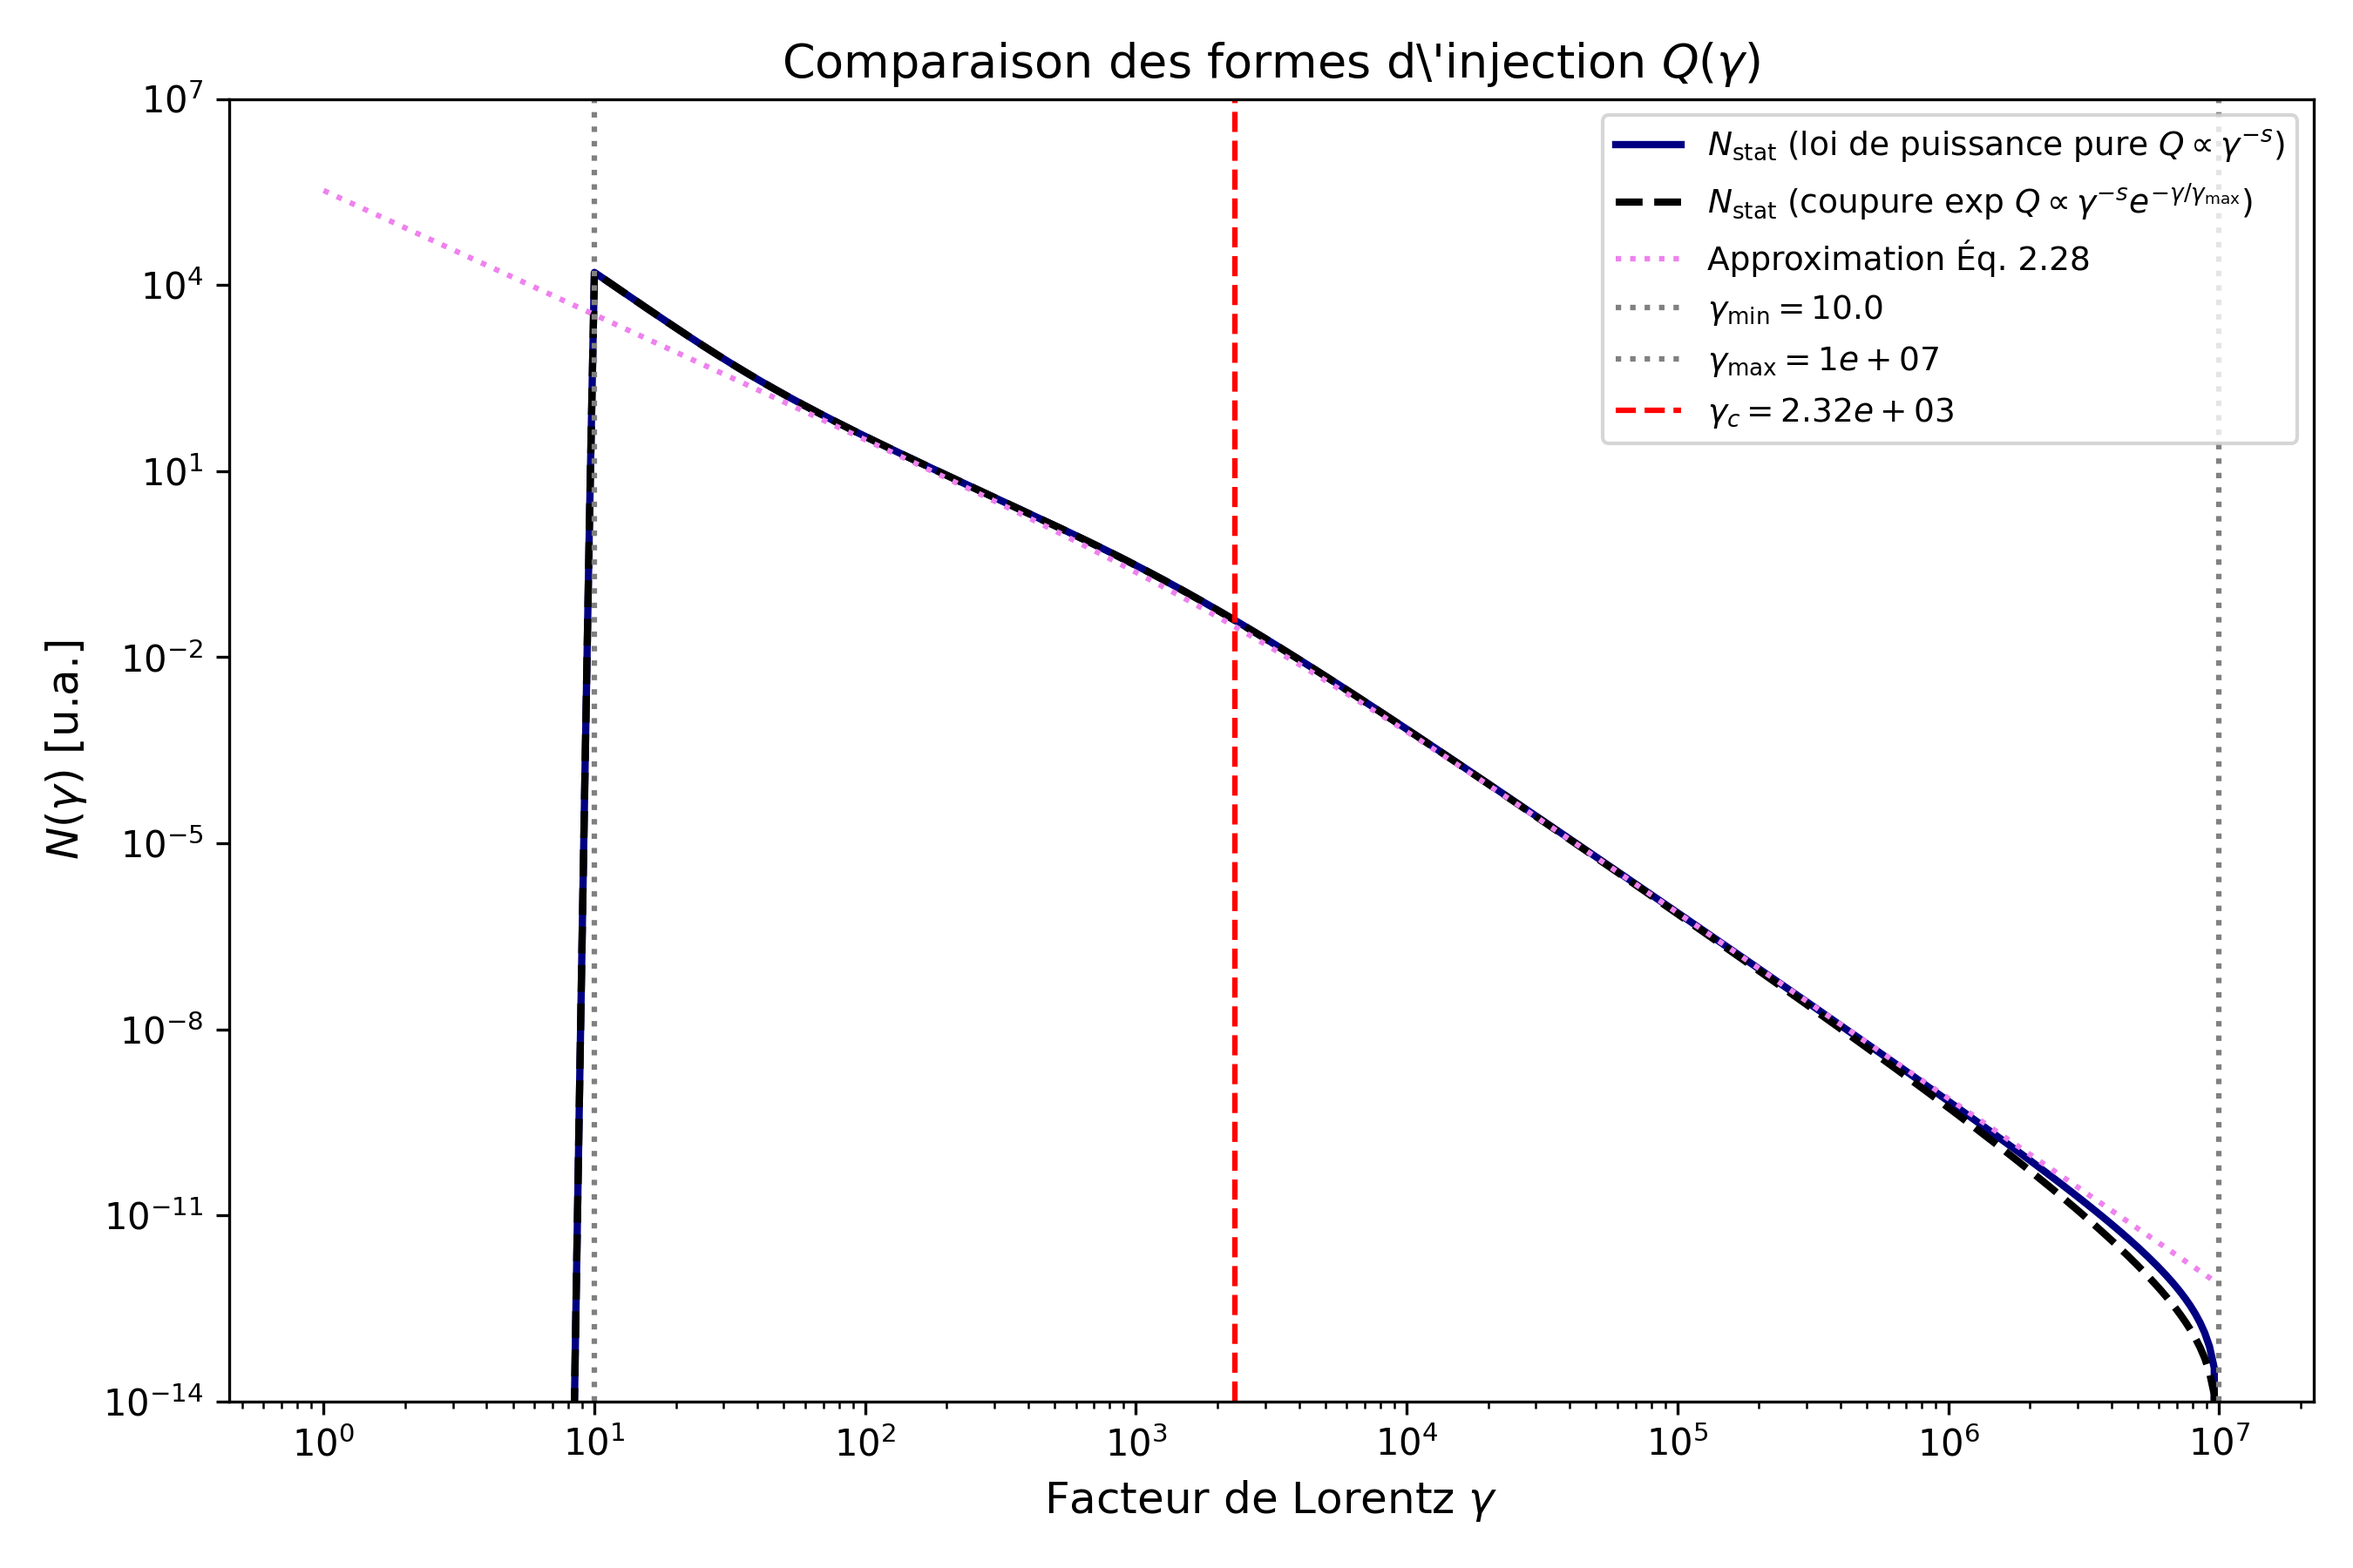
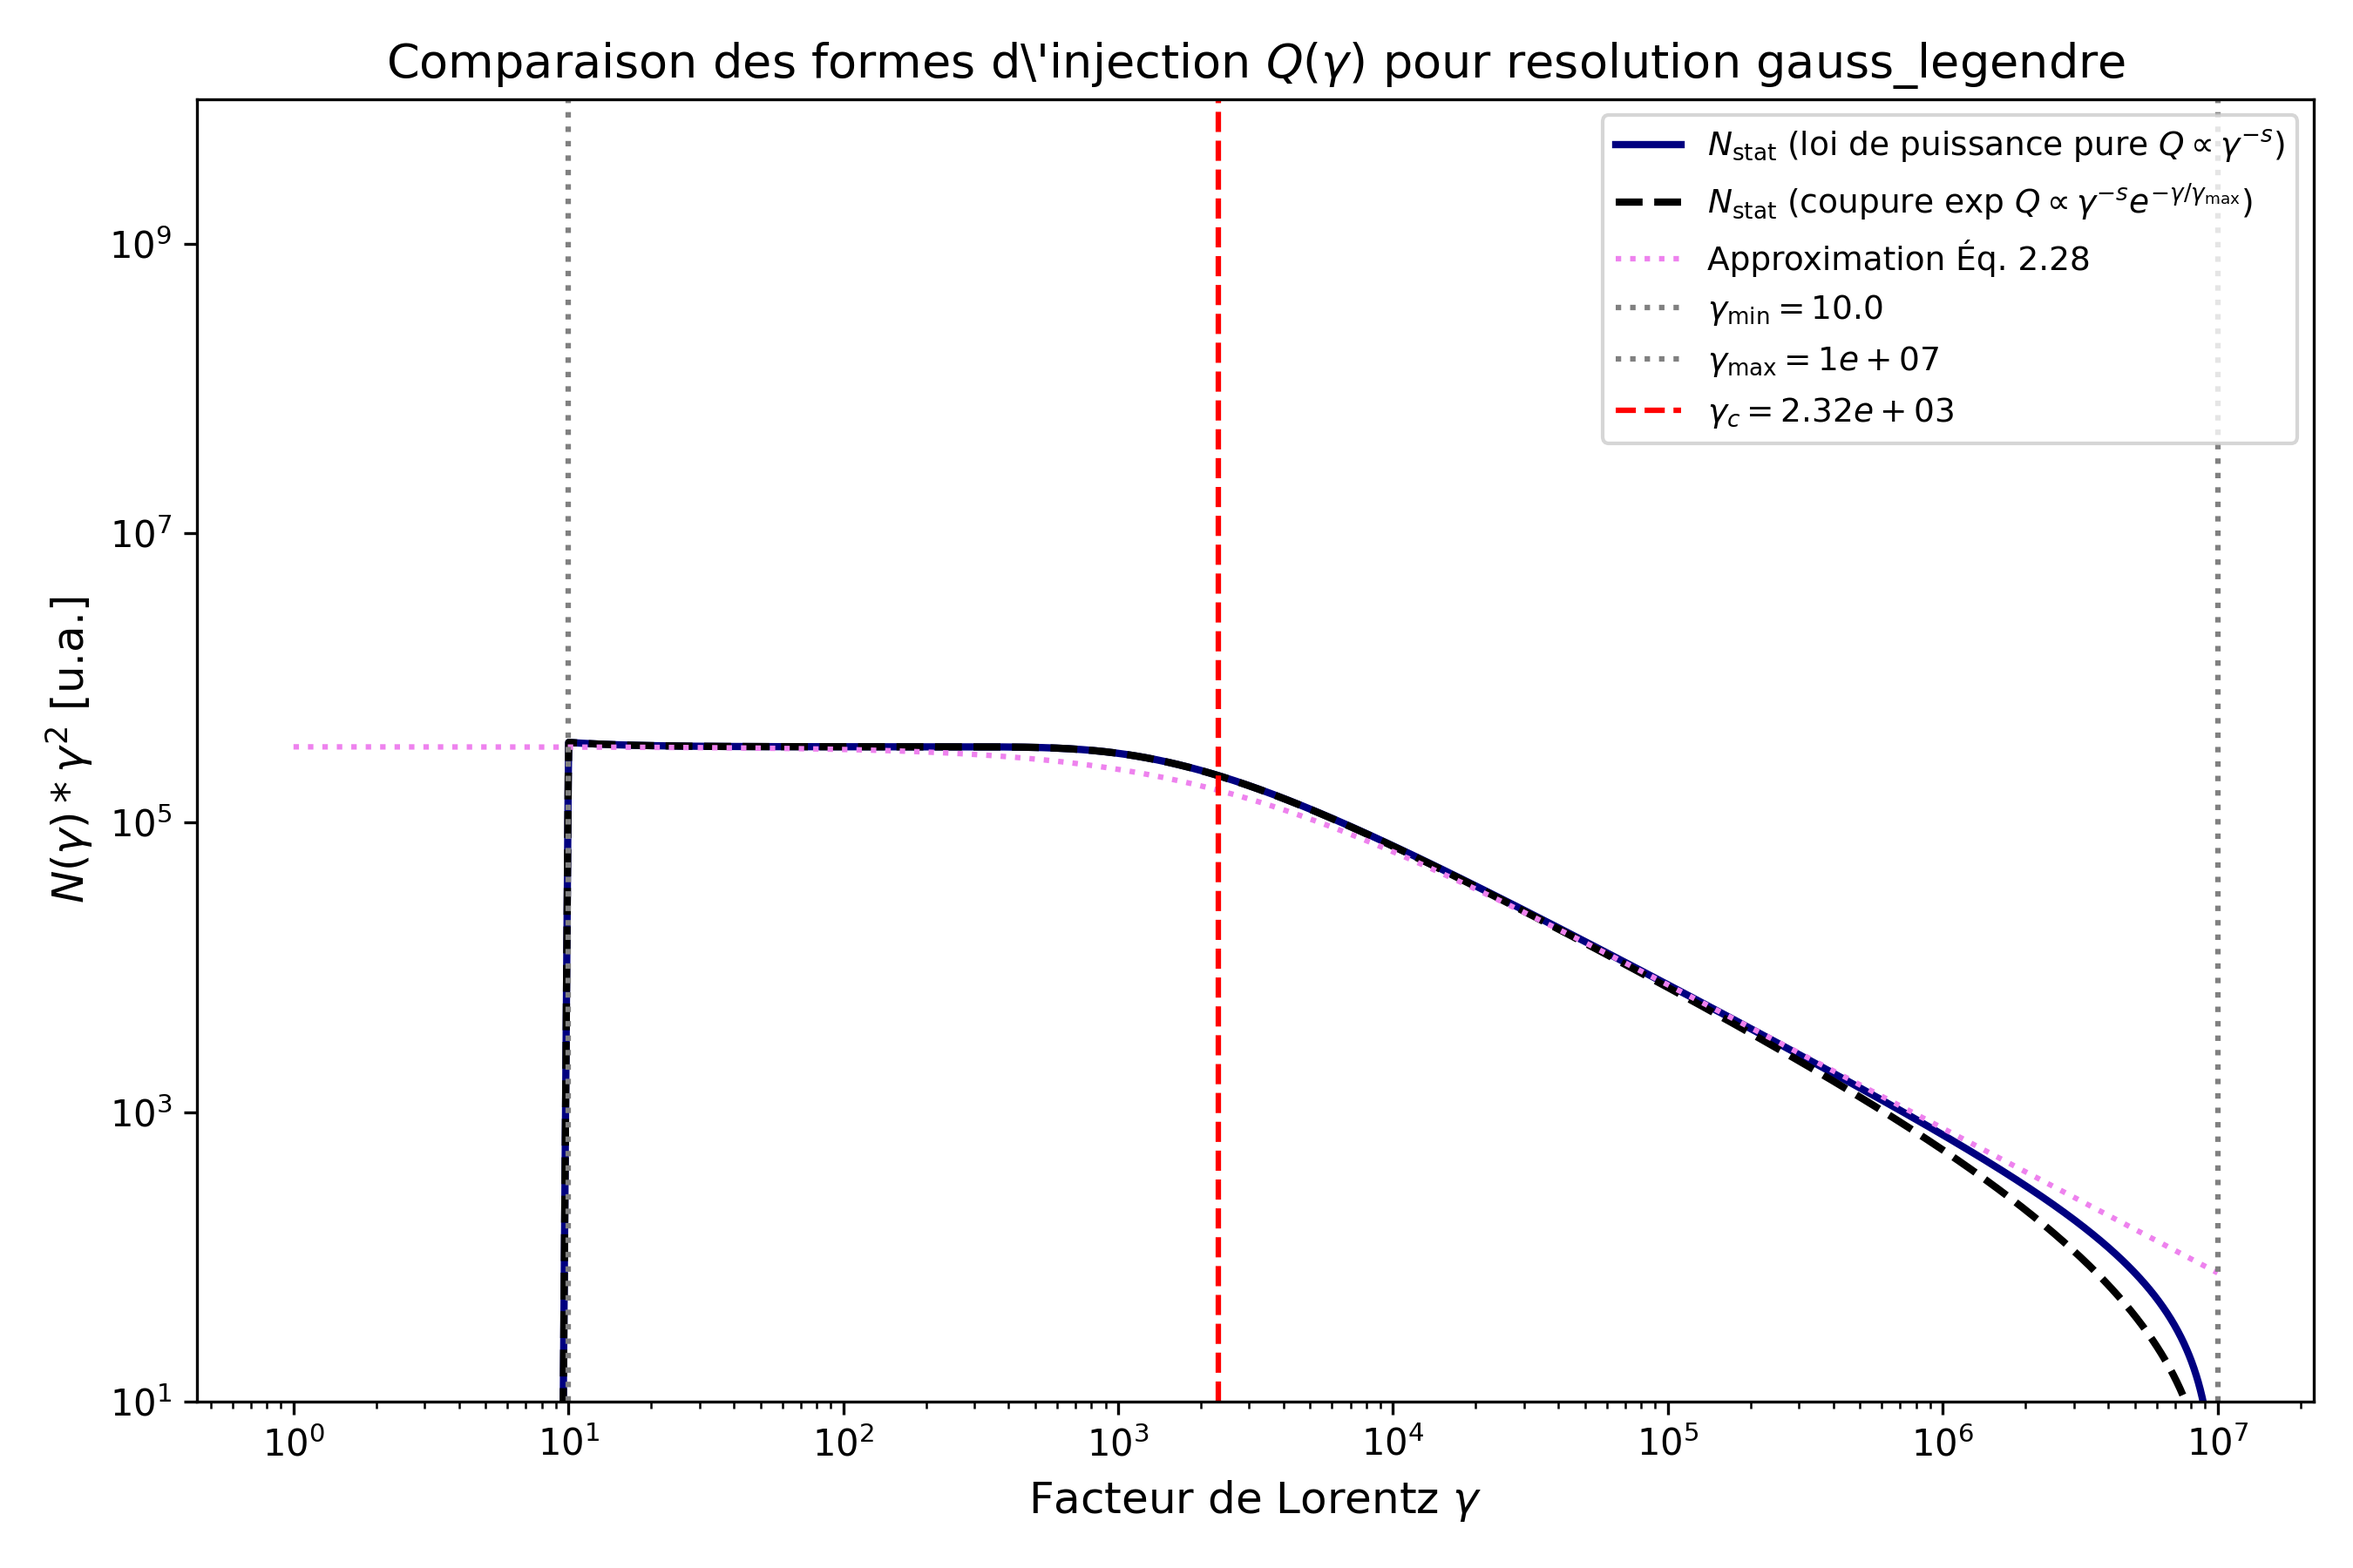
On a fait le test pour comparaison_oinjections en augmentant le nombre gamma, ce qui a perlis de regler le problème de l'erreur de résolution numérique

diff --git a/src/N_analytical_comparaison.py b/src/N_analytical_comparaison.py
@@ -1,6 +1,7 @@
 import numpy as np
 import matplotlib.pyplot as plt
 from scipy.integrate import quad
+from numpy.polynomial.legendre import leggauss
 
 from constant import gamma_c, K, gamma_min, gamma_max, s, Q_0, T_ad
 from N_approx import N_approx
@@ -18,6 +19,8 @@ def integrer_pure(gamma_p,g, gamma_c,gamma_min, gamma_max, s, Q_0):
     exposant = -gamma_c * (1.0 / g - 1.0 / gamma_p)  # Formule stabilisée
     return Q_gp * np.exp(exposant)
 
+
+#resolution avec quad , bcp de problème de résolution
 '''
 def N_analytical_pure(gamma, gamma_c, gamma_min, gamma_max, s, Q_0, K):
     N = np.zeros_like(gamma)
@@ -26,8 +29,10 @@ def N_analytical_pure(gamma, gamma_c, gamma_min, gamma_max, s, Q_0, K):
             I, _ = quad(integrer_pure, g, gamma_max, args=(g,gamma_c,gamma_min, gamma_max, s, Q_0))
             N[i] = I / (K * g**2)
     return N
-
 '''
+
+
+#resolutino avec trapezoid, mieux mais toujours un probléme de résolution
 def N_analytical_pure(gamma, gamma_c, gamma_min, gamma_max, s, Q_0, K):
     N = np.zeros_like(gamma)
     for i, g in enumerate(gamma):
@@ -42,6 +47,8 @@ def N_analytical_pure(gamma, gamma_c, gamma_min, gamma_max, s, Q_0, K):
             N[i] = I / (K * g**2)
             
     return N
+
+
 
 def integrer_Q_y_exp(gamma_p, g, gamma_c,gamma_min, gamma_max, s, Q_0):
     if gamma_min <= gamma_p <= gamma_max:
@@ -58,7 +65,7 @@ def N_analytical_exp(gamma, gamma_c, gamma_min, gamma_max, s, Q_0, K):
 
     for i, g in enumerate(gamma):
         if gamma_min <= g <= gamma_max:
-            I, err = quad(integrer_Q_y_exp, g, gamma_max, args=(g, gamma_c, gamma_max, s, Q_0))
+            I, err = quad(integrer_Q_y_exp, g, gamma_max, args=(g, gamma_c,gamma_min, gamma_max, s, Q_0))
         
             N[i] = I / (K * g**2)
             
@@ -80,7 +87,8 @@ def N_analytical_exp(gamma, gamma_c, gamma_min, gamma_max, s, Q_0, K):
             
     return N
 
-gamma = np.logspace(0, 7, 400)
+
+gamma = np.logspace(0, 7, 4000)
 if __name__ == "__main__":
     
 
@@ -89,19 +97,19 @@ if __name__ == "__main__":
     N_approx_values = N_approx(gamma, s=s, gamma_c=gamma_c, K=K_norm)
 
     plt.figure(figsize=(9, 6))
-    plt.loglog(gamma, N_pure, label=r'$N_{\text{stat}}$ (loi de puissance pure $Q \propto \gamma^{-s}$)', color='navy', lw=2)
-    plt.loglog(gamma, N_exp, label=r'$N_{\text{stat}}$ (coupure exp $Q \propto \gamma^{-s} e^{-\gamma/\gamma_{\max}}$)', color='black', lw=2, ls='--')
-    plt.loglog(gamma, N_approx_values, label=r'Approximation Éq. 2.28', color='violet', linestyle=':')
+    plt.loglog(gamma, N_pure*gamma**2, label=r'$N_{\text{stat}}$ (loi de puissance pure $Q \propto \gamma^{-s}$)', color='navy', lw=2)
+    plt.loglog(gamma, N_exp*gamma**2, label=r'$N_{\text{stat}}$ (coupure exp $Q \propto \gamma^{-s} e^{-\gamma/\gamma_{\max}}$)', color='black', lw=2, ls='--')
+    plt.loglog(gamma, N_approx_values*gamma**2, label=r'Approximation Éq. 2.28', color='violet', linestyle=':')
 
     # Repères visuels
     plt.axvline(gamma_min, color='gray', linestyle=':', label=rf'$\gamma_{{\min}} = {gamma_min}$')
     plt.axvline(gamma_max, color='gray', linestyle=':', label=rf'$\gamma_{{\max}} = {gamma_max:.0e}$')
     plt.axvline(gamma_c, color='red', linestyle='--', label=rf'$\gamma_c = {gamma_c:.2e}$')
 
-    plt.ylim(10e-15, 10e6)
+    plt.ylim(10e0, 10e9)
     plt.xlabel(r'Facteur de Lorentz $\gamma$', fontsize=12)
-    plt.ylabel(r'$N(\gamma)$ [u.a.]', fontsize=12)
-    plt.title(r'Comparaison des formes d\'injection $Q(\gamma)$', fontsize=13)
+    plt.ylabel(r'$N(\gamma)*\gamma^2$ [u.a.]', fontsize=12)
+    plt.title(r'Comparaison des formes d\'injection $Q(\gamma)$ pour resolution gauss_legendre', fontsize=13)
     plt.legend(fontsize=9)
     plt.tight_layout()
 
